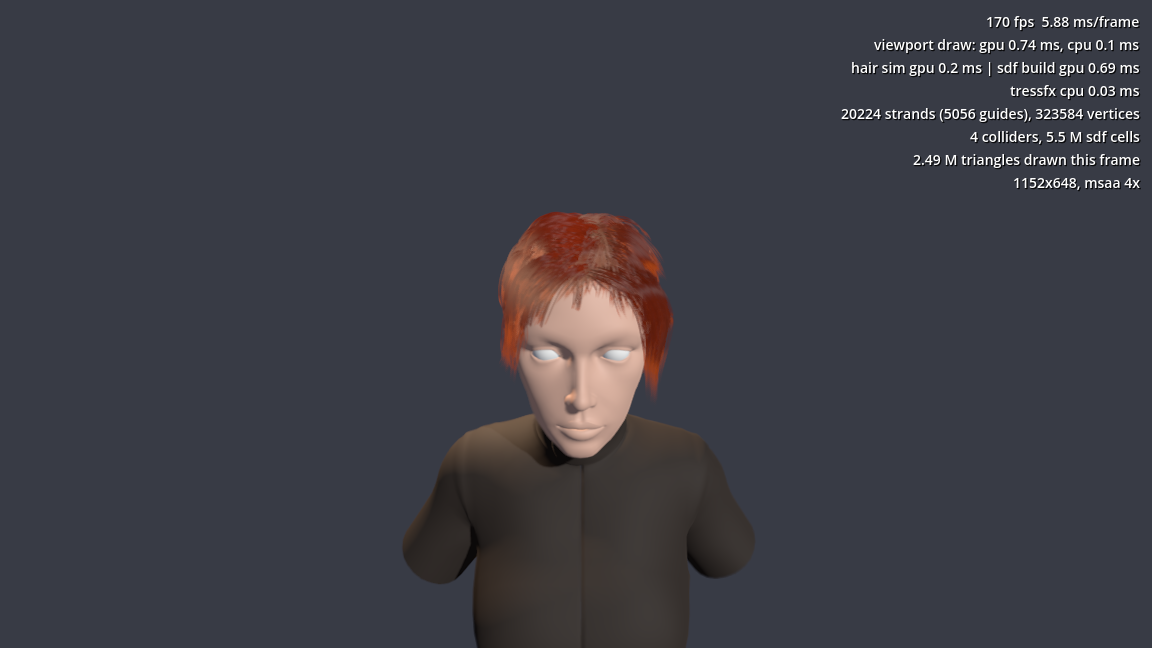
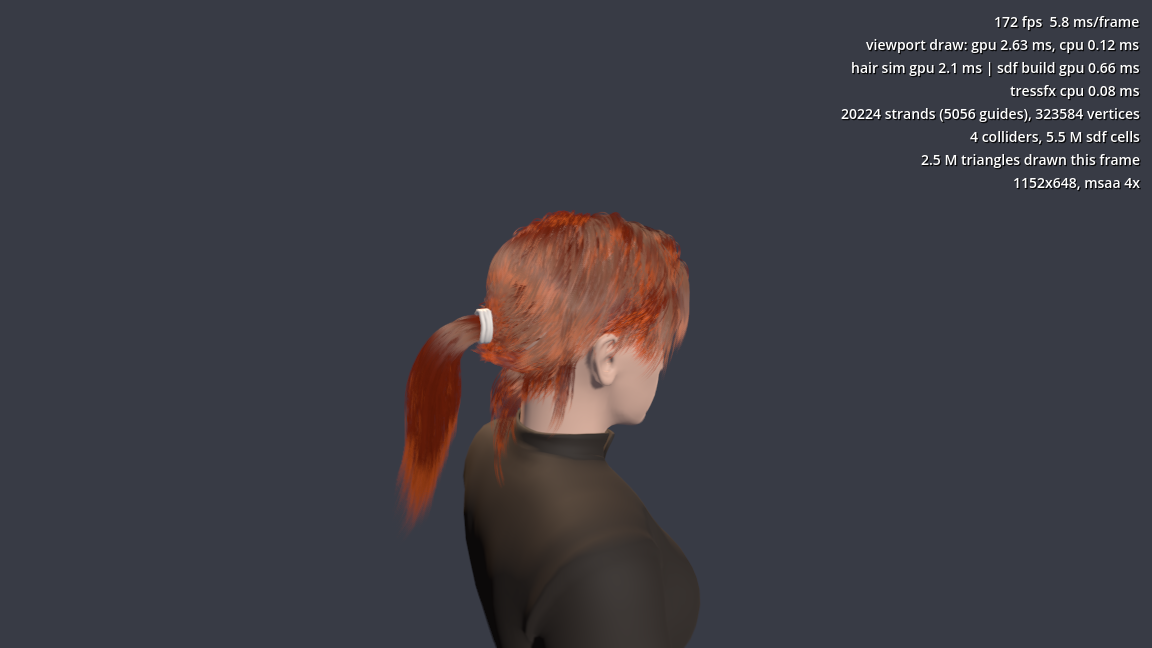
Ponytail is the main demo: side-view screenshot, README order, --yaw flag for bust demos

diff --git a/README.md b/README.md
@@ -11,11 +11,11 @@ skinned to your animated `Skeleton3D`, kept out of the character's body with sig
 fields, and drawn as thin ribbons with proper hair lighting. It runs in the editor too, so you can
 tune a hairstyle while the animation plays.
 
+![Ponytail swinging as the head turns, kept out of the head and shoulders by distance-field colliders](screenshots/ponytail.png)
+
+### RatBoy
+
 ![RatBoy with 82,000 simulated fur and mohawk strands](screenshots/ratboy.png)
-
-### Ponytail
-
-![Ponytail hairstyle on a bust, colliding with head and shoulders](screenshots/ponytail.png)
 
 <sub>Both scenes ship with the addon. Captured on an RTX 4060 Ti at 1152x648 with MSAA 4x and TAA.</sub>
 
@@ -66,10 +66,10 @@ want them in your project.
 
 ## Demos
 
+- **Ponytail** (`addons/tressfx/demo/ponytail.tscn`, the project's main scene): the TressFX 3.1
+  ponytail on a bust with primitive colliders. Drag with the mouse to turn the head.
 - **RatBoy** (`addons/tressfx/demo/main.tscn`): AMD's own sample character with fur and a
   mohawk skinned to the animation, colliding with the body and both hands.
-- **Ponytail** (`addons/tressfx/demo/ponytail.tscn`): the TressFX 3.1 ponytail on a bust with
-  primitive colliders. Drag with the mouse to turn the head.
 
 Both scenes take command-line flags for benchmarks and jitter checks; they are listed at the
 top of `main.gd` and `bust.gd`.

diff --git a/addons/tressfx/README.md b/addons/tressfx/README.md
@@ -143,14 +143,14 @@ builds; run the editor or game with `--verbose` to log asset loading.
 
 ## Demos
 
+- `addons/tressfx/demo/ponytail.tscn` AMD's TressFX 3.1 ponytail (Maya source converted with
+  `ma_to_tfx.py`) on the Ruby head, primitive colliders, no skeleton. Drag with the mouse to
+  turn the head.
 - `addons/tressfx/demo/main.tscn` AMD's RatBoy: fur and mohawk skinned to the animated skeleton, three SDF
   colliders from `.tfxmesh` files. Flags after `--`: `--no-fur`, `--no-mohawk`,
   `--no-collision`, `--no-sdf`, `--hide-hair`, `--no-anim`, `--wind=<f>`, `--bench` (with
   `--disable-vsync`), `--jitter-check` (prints the share of vertices that still jitter),
   `--shot=<dir>` (screenshots).
-- `addons/tressfx/demo/ponytail.tscn` AMD's TressFX 3.1 ponytail (Maya source converted with
-  `ma_to_tfx.py`) on the Ruby head, primitive colliders, no skeleton. Drag with the mouse to
-  turn the head.
 
 ## Not ported from TressFX
 
